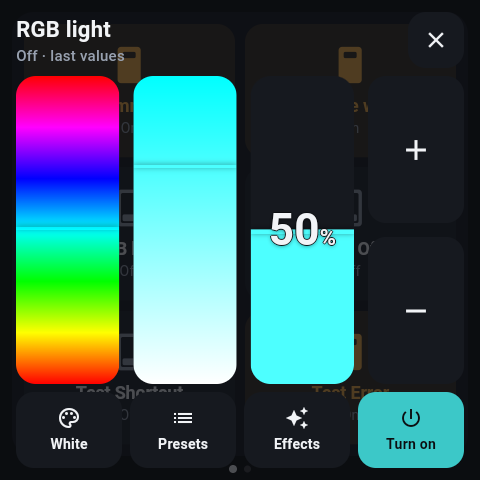
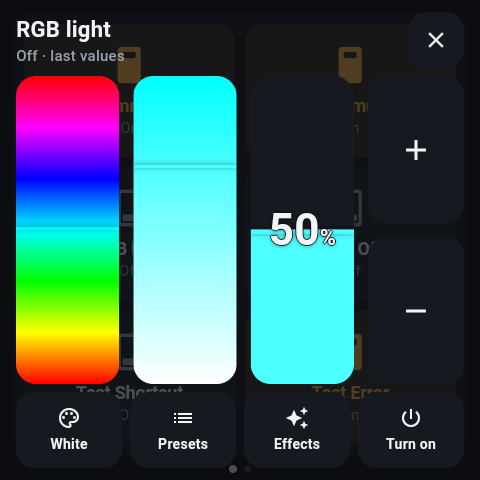
Show neutral off-state power action in panel capture

Changed region(s): [[0.7188, 0.8125, 0.9688, 1.0], [0.7188, 0.2188, 0.7812, 0.25]]

diff --git a/docs/images/light-controls/README.md b/docs/images/light-controls/README.md
@@ -13,7 +13,7 @@ in the contribution.
 - `effects.png`: Rainbow remembered and selected while the light is off.
 - `last-values.png`: RGB details after restarting the application while the
   simulated server reports only off states with missing colour/brightness values.
-  The power action retains the remembered target tint instead of falling back to amber.
+  The power action remains neutral while off; the sliders retain the remembered colour.
 
 The SONOFF floating back button was temporarily disabled during capture; the
 screen contents were not retouched. Its original setting was restored afterward.
